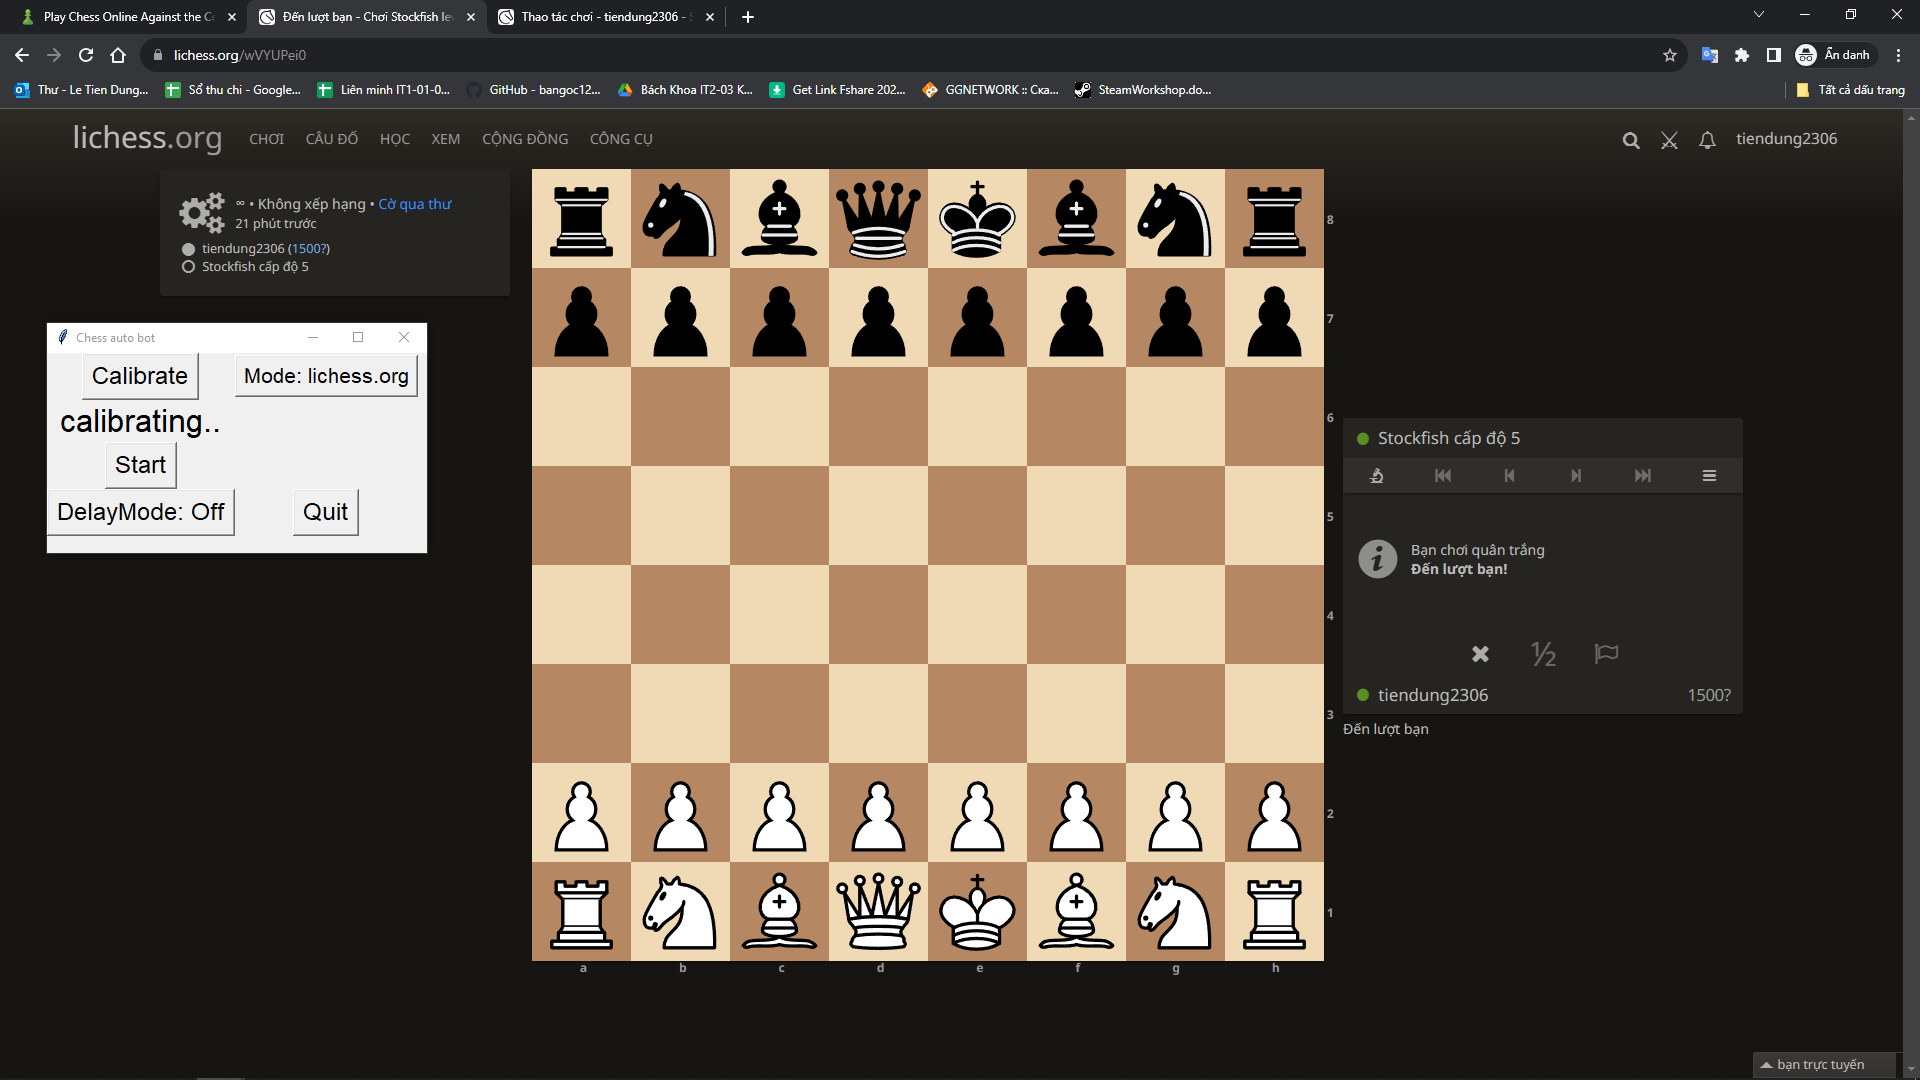
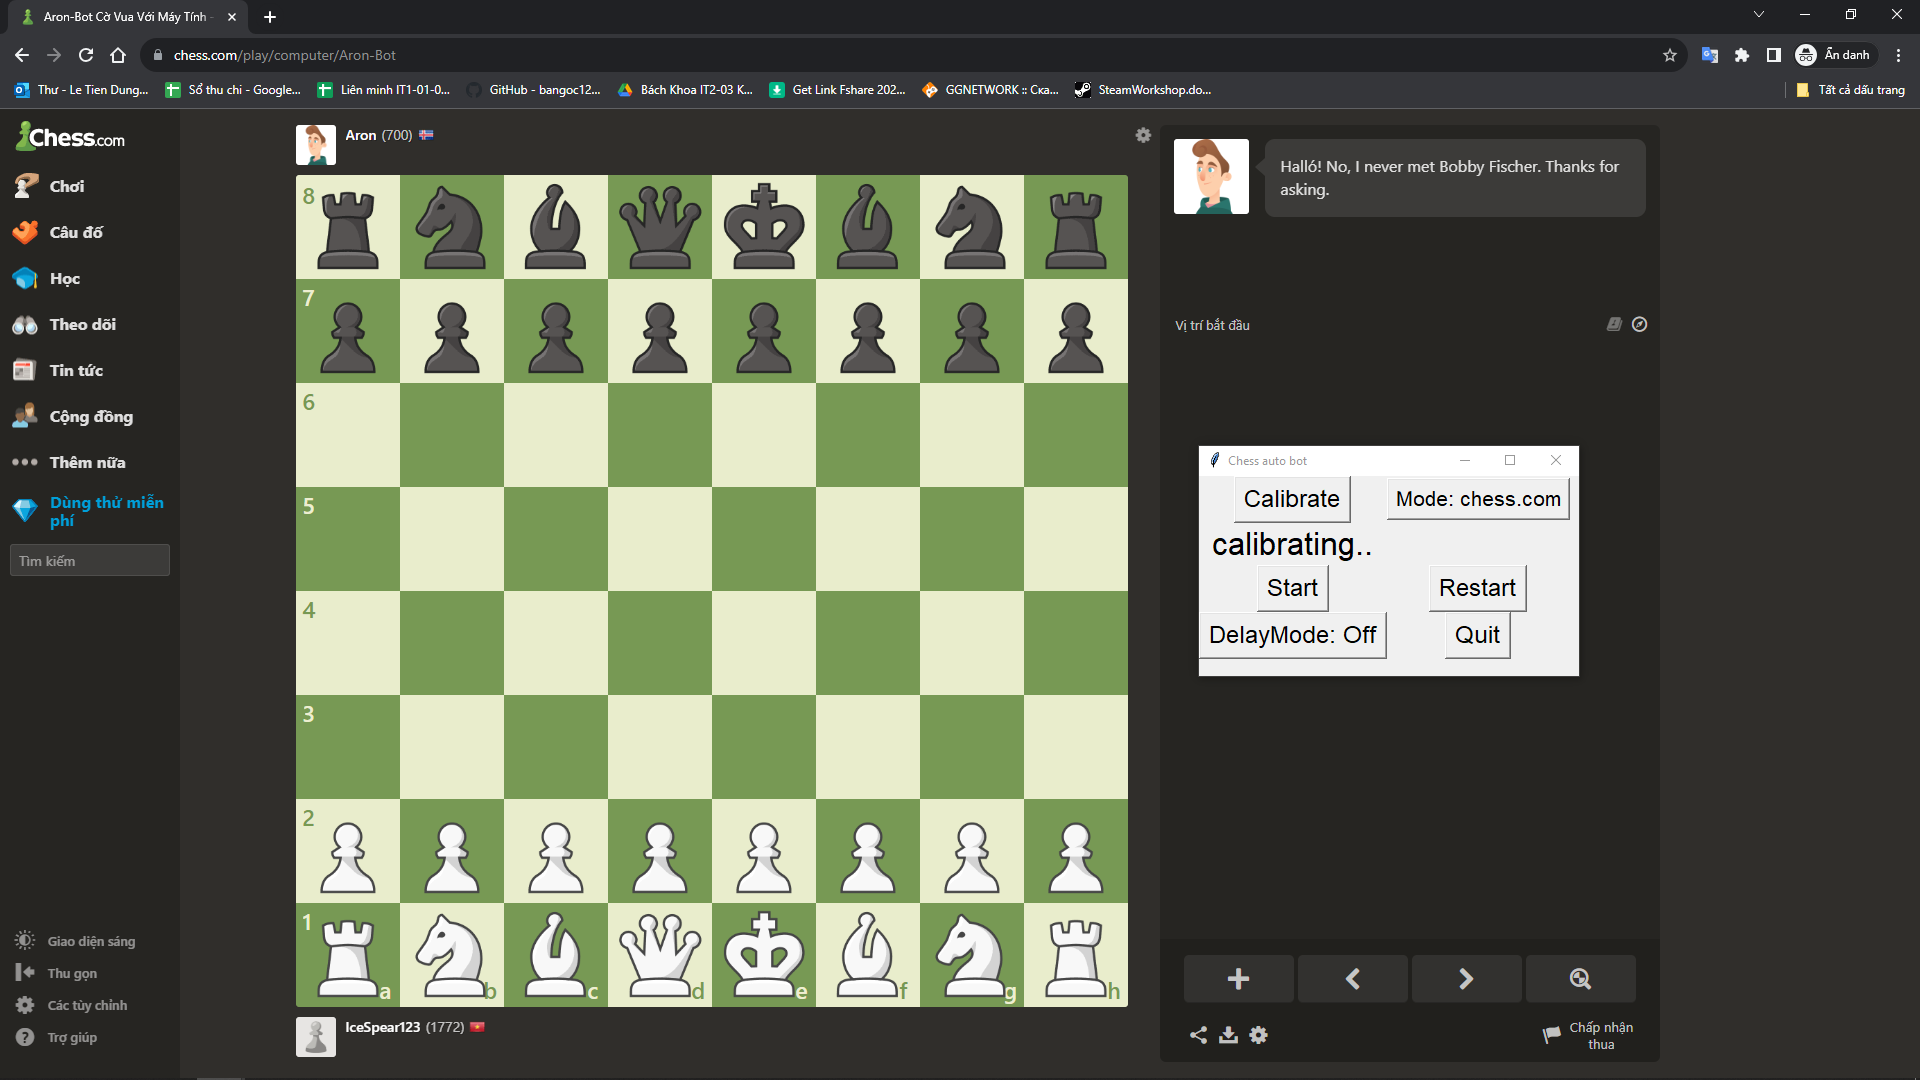
improve UI, add restart function

diff --git a/bot_process.py b/bot_process.py
@@ -38,30 +38,18 @@ LICHESS_ORG = 0
 mode = CHESS_COM
 isEnd = False
 delay_mode = True
+isStart = False
+isRestart = False
 #stockfish stats
-skill_level = 5
+skill_level = 4
 movetime = 0.25
 
 def setup():
-    global side, white_square_pixel, black_square_pixel, black_yellow_square_pixel, white_yellow_square_pixel
-    # global topleft_position
-    # topleft_position = pag.locateOnScreen('Assets\\chess_com\\br_topleftpiece.png', minSearchTime=0.75)
-    # if topleft_position == None:
-    #     side = BLACK
-    #     topleft_position = pag.locateOnScreen('Assets\\chess_com\\wr_topleftpiece.png', minSearchTime=0.75)
-    # # print(topleft_position)
-    # global botright_position
-    # if side == WHITE:
-    #     botright_position = pag.locateOnScreen('Assets\\chess_com\\wr_botrightpiece.png', minSearchTime=0.75)
-    # else:
-    #     botright_position = pag.locateOnScreen('Assets\\chess_com\\br_botrightpiece.png', minSearchTime=0.75)
-    # # print(botright_position)
-    # global piece_box_width
-    # piece_box_width = (pag.center(botright_position)[0] - pag.center(topleft_position)[0])/7
-    # global piece_box_height
-    # piece_box_height = (pag.center(botright_position)[1] - pag.center(topleft_position)[1])/7
-    global PrevImg, CurrImg
-    PrevImg = pag.screenshot('Assets\\chess_com\\PrevScreen.png')
+    global side, white_square_pixel, black_square_pixel, black_yellow_square_pixel, white_yellow_square_pixel, moves, moveCount
+    moveCount = 0
+    moves = ''
+
+    global CurrImg
     CurrImg = pag.screenshot('Assets\\chess_com\\CurrScreen.png')
 
     f = open("settings.txt", "r")
@@ -73,7 +61,6 @@ def setup():
     black_square_pixel = (tmp[10], tmp[11], tmp[12])
     # print(h3square_coord)
     f.close()   
-
 
     global topleft_position, botright_position
     topleft_position = (h3square_coord[0] - h3square_coord[2] * 7, h3square_coord[1] - h3square_coord[3] * 5, h3square_coord[2], h3square_coord[3])
@@ -154,9 +141,9 @@ def make_delay():
         time.sleep(1)
         return
     tmp = random.randint(0, 100)
-    if tmp < 5 == 0:
+    if tmp < 8 == 0:
         time.sleep(random.randint(10, 20)) #chinh delay giua moi lan minh di mot nuoc
-    elif tmp <= 45:
+    elif tmp <= 50:
         time.sleep(random.randint(4, 7)) #chinh delay giua moi lan minh di mot nuoc
     else:
         time.sleep(random.randint(0, 3)) #chinh delay giua moi lan minh di mot nuoc
@@ -166,6 +153,8 @@ def move_piece(x="", y="", z=None): #di chuyen quan co tu o x den o y, neu z != 
     delay_time_btw_2click = 0.05
     if delay_mode == True:
         make_delay()
+    if isEnd or isRestart:
+        return
     if z == None:
         x1 = click_piece(x)
         time.sleep(delay_time_btw_2click)
@@ -231,7 +220,7 @@ def FindSquare(x):
     return CoordinateToSquareName(posX, posY)
 
 def GetCenterPixel(x, y):
-    global PrevImg, CurrImg, topleft_position, piece_box_width, piece_box_height
+    global CurrImg, topleft_position, piece_box_width, piece_box_height
     # pag.moveTo(pag.center(topleft_position)[0] + piece_box_width * x, pag.center(topleft_position)[1] + piece_box_height * y)
     if mode == CHESS_COM:
         offset = (0, 0)
@@ -299,7 +288,7 @@ def Process():
     #         print()
     #     print(prevChessboardPixel[i], end=' ')
 
-    while sf.isGameOver() == False and isEnd == False:
+    while sf.isGameOver() == False and isEnd == False and isRestart == False:
         global myMove1, myMove2
         if moveCount % 2 == 1 - side: #den luot minh di chuyen
             move = sf.GetNextMove(movetime)
@@ -318,11 +307,13 @@ def Process():
             # for x in currChessboard:
             #     print(x, end='\n')
             # print()
-            time.sleep(0.025)
+            # time.sleep(0.025)
             prevChessboardPixel = getChessboardState()
         else:
             isMove = False
-            time.sleep(1)
+            time.sleep(0.25)
+            if isEnd or isRestart:
+                break
             enemyMoves = list()
             currChessboardPixel = getChessboardState()
             for i in range(0, 64):
@@ -390,7 +381,8 @@ def Process():
             # print(currChessboardPixel)
 
 def main():
-    global piece_box_width, piece_box_height, chessboard_surface
+    print('start')
+    global piece_box_width, piece_box_height, chessboard_surface, isEnd
     setup()
     # move_piece('d7', 'd5')
     chessboard_surface = (topleft_position[0], topleft_position[1], int(piece_box_width * 8), int(piece_box_height * 8))
@@ -398,6 +390,13 @@ def main():
     Process()
     sf.QuitEngine()
 
+def start():
+    global isStart
+    while isEnd == False:
+        if isStart:
+            isStart = False
+            sf.Init(skill_level)
+            main()
 
 if __name__ == "__main__":
     main()

diff --git a/gui.py b/gui.py
@@ -1,6 +1,6 @@
 from tkinter import *
-from tkinter import ttk
-import os
+from tkinter import messagebox
+import time
 
 import bot_process
 import calibrate
@@ -10,7 +10,6 @@ isCalibrate = False
 state_text = 'waiting..'
 isEnd = False
 isMenu = True
-
 
 def update_state_text():
     if isCalibrate:
@@ -24,6 +23,8 @@ def update_state_text():
 def start():
     global isStart
     isStart = True
+    bot_process.isRestart = False
+    bot_process.isStart = True
     update_state_text()
 
 def change_delaymode():
@@ -49,26 +50,40 @@ def change_mode():
         state = 'lichess.org'
     mode_btn.config(text='Mode: ' + state)
 
+def restart():
+    global isStart
+    bot_process.isRestart = True
+    state_label.config(text='restarting..')
+    isStart = False
+    root.after(3000, update_state_text)
+
 def quit():
     global root, isEnd
-    root.destroy()
     bot_process.isEnd = True
     isEnd = True
+    root.destroy()
+    
+def on_closing():
+    if messagebox.askokcancel("Quit", "Do you want to quit?"):
+        quit()
+
+
 
 def main():
     global isStart, root, state_text, state_label, delaymode_btn, mode_btn
     isStart = False
     root = Tk()
     root.title('Chess auto bot')
-    root.geometry('380x200')
+    root.geometry("")
     root.attributes('-topmost', True)
-
+    root.protocol("WM_DELETE_WINDOW", on_closing)
     Button(root, text='Calibrate', font=('Arial', 18), command=calibrate).grid(row=0, column=0)
     mode_btn = Button(root, text='Mode: chess.com', font=('Arial', 16), command=change_mode)
     mode_btn.grid(row=0, column=1)
     state_label = Label(root, text=state_text, font=('Arial', 24))
     state_label.grid(row=1, column=0)
     Button(root, text='Start', font=('Arial', 18), command=start).grid(row=2, column=0)
+    Button(root, text='Restart', font=('Arial', 18), command=restart).grid(row=2, column=1)
     delaymode_btn = Button(root, text='DelayMode: On', font=('Arial', 18), command=change_delaymode)
     delaymode_btn.grid(row=3, column=0)
     Button(root, text='Quit', font=('Arial', 18), command=quit).grid(row=3, column=1)

diff --git a/main.py b/main.py
@@ -1,4 +1,5 @@
 import threading
+import time
 
 import gui
 import bot_process
@@ -8,21 +9,27 @@ def start_gui():
     gui.main()
 
 def start_bot():
-    bot_process.main()
+    bot_process.start()
 
 def start_calibrate():
     calibrate.main()
 
 def main():
     thread1 = threading.Thread(target=start_gui)
+    thread1.setDaemon(True)
     thread1.start()
     thread2 = threading.Thread(target=start_bot)
+    thread2.setDaemon(True)
     thread3 = threading.Thread(target=start_calibrate)
+    thread3.setDaemon(True)
     thread3.start()
-    while bot_process.isEnd == False:
-        if gui.isStart == True:
-            thread2.start()
-            gui.isStart = False
+    thread2.start()
+
+    while True:
+        time.sleep(1)
+        # print('alive!!!')
+        if not thread1.is_alive() or not thread2.is_alive() or not thread3.is_alive():
+            return()
 
 
 if __name__ == '__main__':

diff --git a/stockfish.py b/stockfish.py
@@ -5,7 +5,8 @@ import time
 board = chess.Board()
 
 def Init(skill_level):
-    global engine
+    global engine, board
+    board = chess.Board()
     engine = chess.engine.SimpleEngine.popen_uci('.\\stockfish\\stockfish-windows-x86-64-avx2.exe')
     engine.configure({"Skill Level": skill_level})
 
